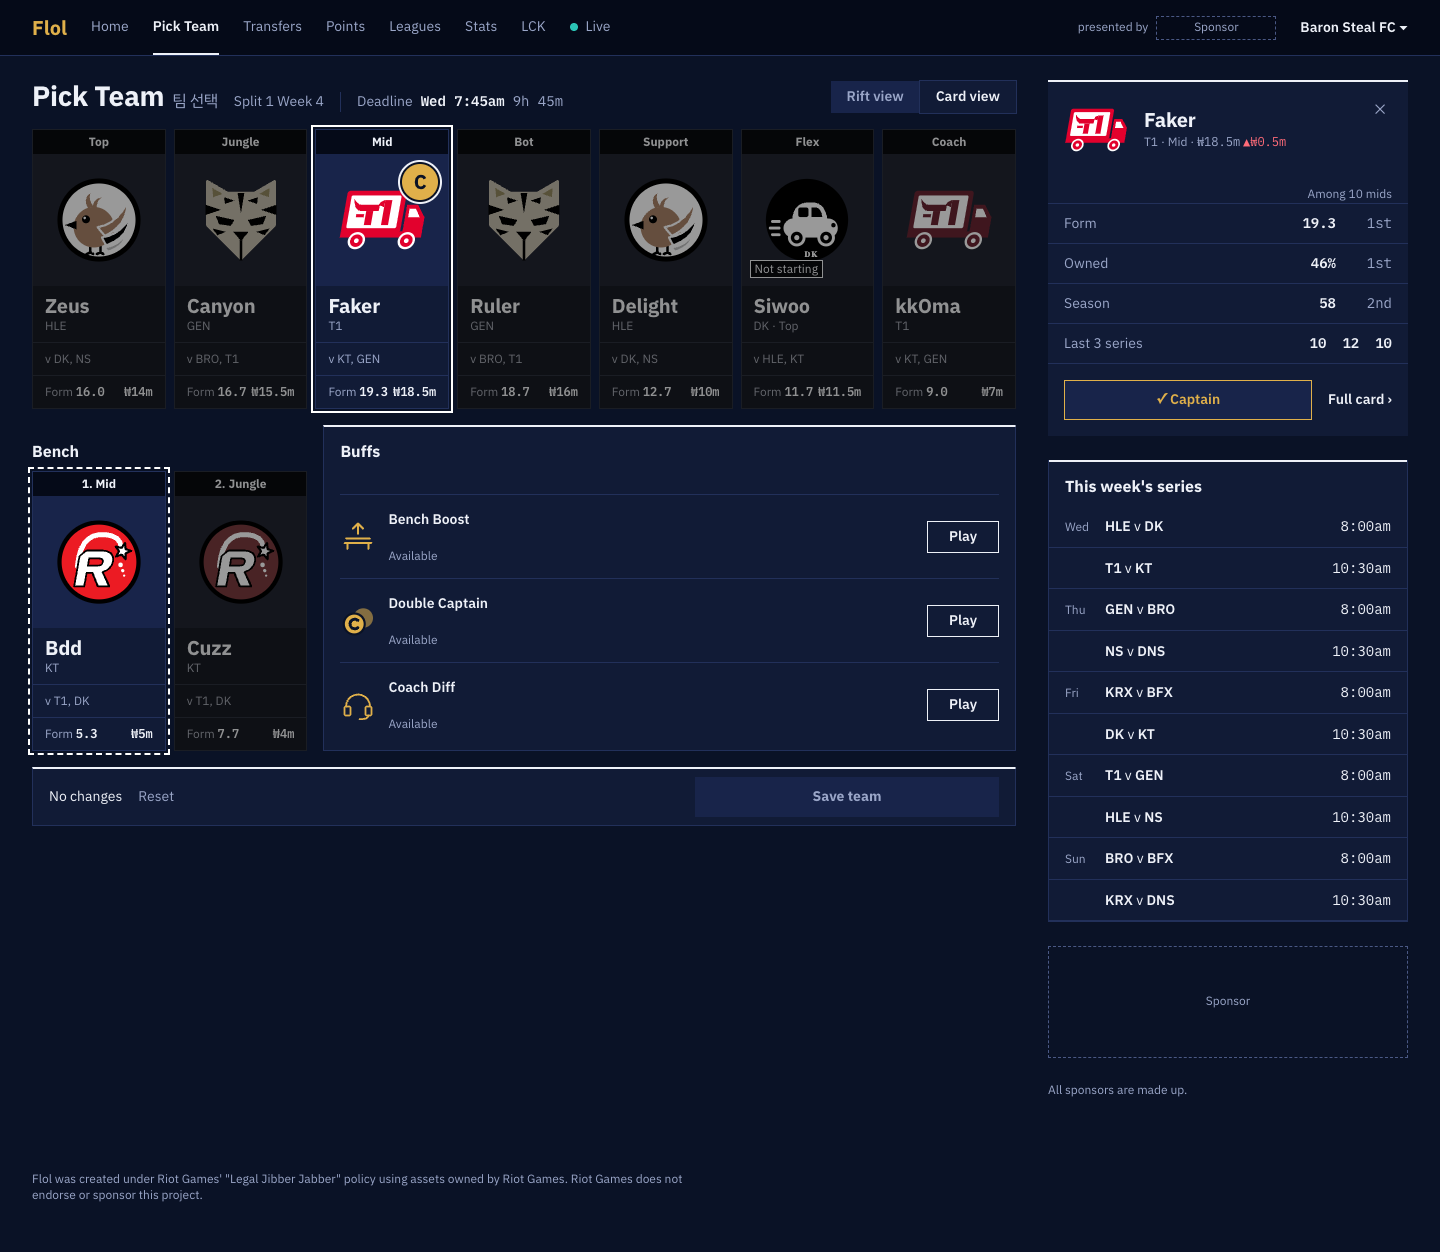
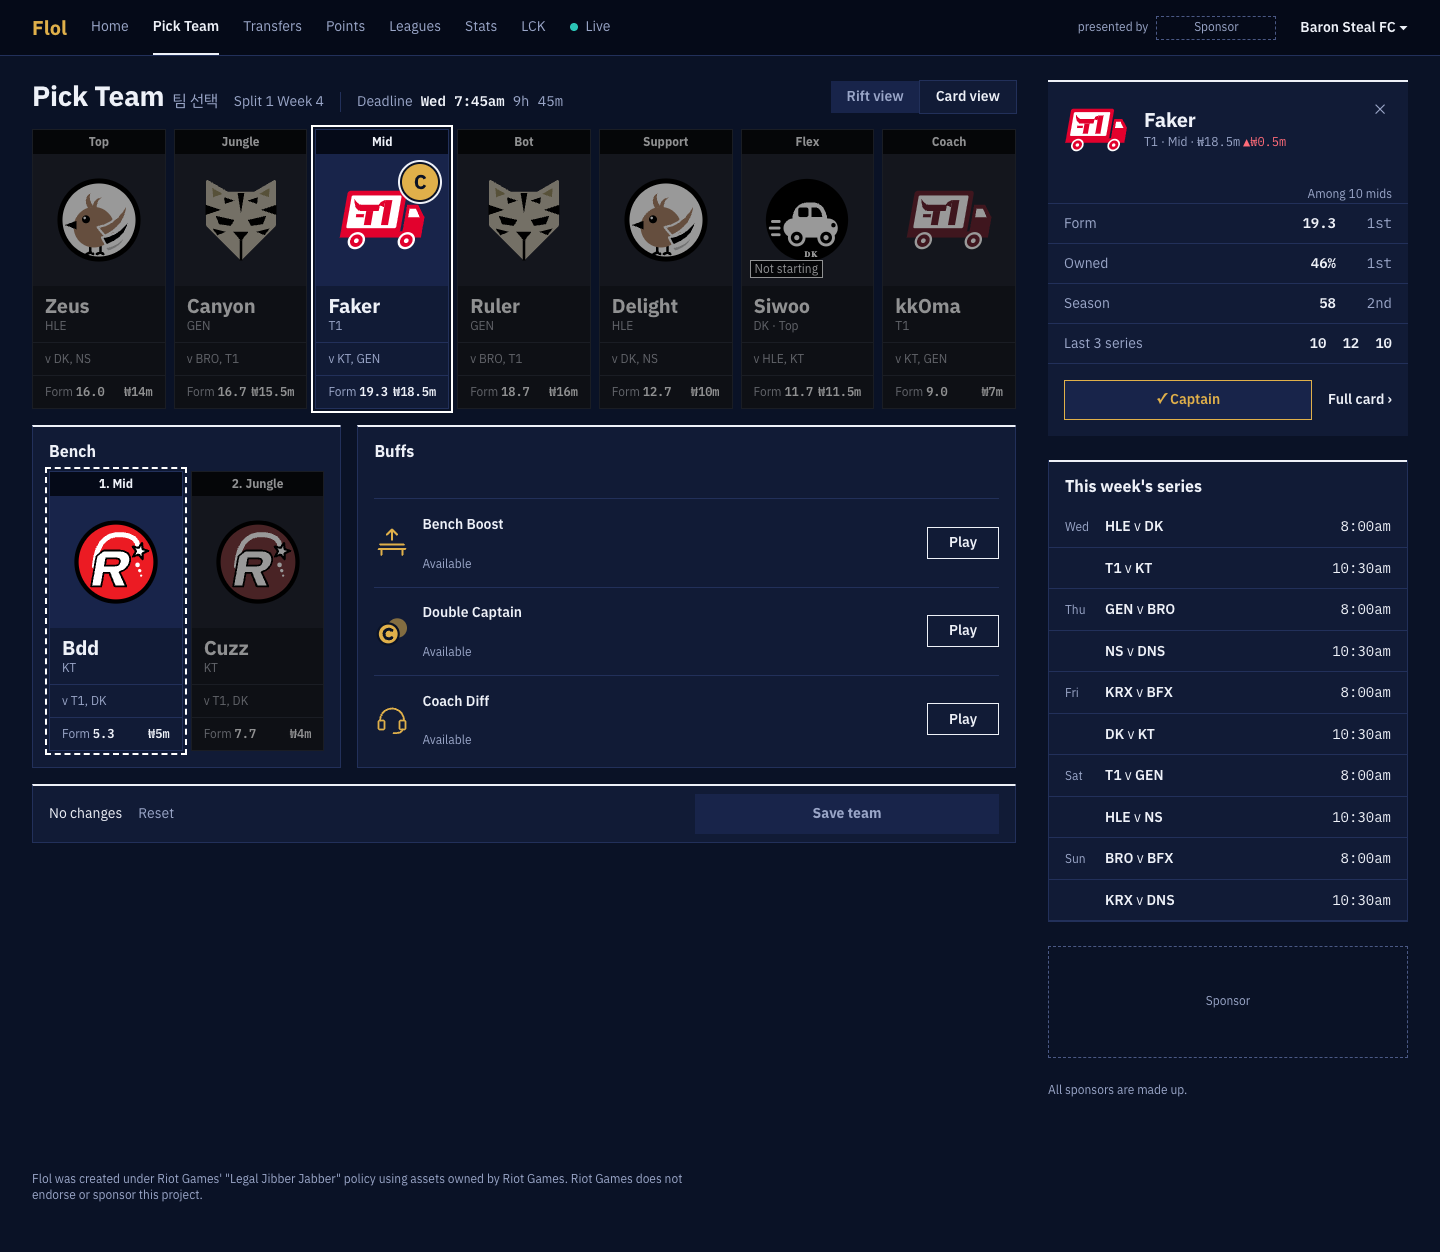
docs: Card view's bench is a panel level with Buffs
Part of #464

diff --git a/docs/design/approved/pick-team/arena.html b/docs/design/approved/pick-team/arena.html
@@ -128,10 +128,10 @@
 /* A buff with no key keeps its state under its name. */
 @media (min-width: 601px) { .buff__left { grid-column: 2; } }
 @media (min-width: 601px) {
-  /* The foot keeps the lineup's seven columns, so the bench's two cards sit under the first two starters at their size. */
-  .object--cards .squad-foot { display: grid; grid-template-columns: repeat(7, minmax(0, 1fr)); width: auto; margin-block: 0; gap: 16px 8px; }
-  .object--cards .squad-foot .bench { grid-column: 1 / span 2; grid-row: 1; grid-template-columns: 1fr 1fr; grid-template-rows: auto auto; justify-items: stretch; align-items: start; gap: 8px; padding: 14px 0 0; background: none; border: 0; }
-  .object--cards .squad-foot .buffs { grid-column: 3 / -1; grid-row: 1; margin-left: 8px; padding-bottom: 4px; }
+  /* The bench is a panel as Buffs is, the same top and foot; it is wide enough that its two cards keep a starter's width. */
+  .object--cards .squad-foot { display: grid; grid-template-columns: calc((100% - 48px) / 7 * 2 + 42px) 1fr; width: auto; margin-block: 0; gap: 16px; }
+  .object--cards .squad-foot .bench { grid-column: 1; grid-row: 1; grid-template-columns: 1fr 1fr; grid-template-rows: auto auto; justify-items: stretch; align-items: start; gap: 8px; padding: 12px 16px 16px; background: var(--paper); border: 1px solid var(--line); border-top: 2px solid var(--text); }
+  .object--cards .squad-foot .buffs { grid-column: 2; grid-row: 1; padding-bottom: 4px; }
   .object--cards .squad-foot .bar { grid-column: 1 / -1; display: flex; align-items: center; padding: 8px 16px; gap: 16px; }
   .object--cards .squad-foot .bar .bar__gap { display: block; }
   .object--cards .squad-foot .bar .save { min-width: 304px; }

diff --git a/docs/design/approved/pick-team/README.md b/docs/design/approved/pick-team/README.md
@@ -31,7 +31,7 @@ Arena is the first picture in the new look: the LCK's navy as the ground, IBM Pl
 - **A player**: a tap opens his card. Those he can swap with are outlined and the rest dimmed; tap one and they swap, tap him again to let go (FPL's one-tap swap).
 - **Buffs**: in the column beside the Rift, each its gold icon, name, state (`Available`, `On this week`, `Unavailable`, `Played Week n`) and a key: `Play` when available, `Cancel` when on, none otherwise. What it does is its hover. Never a count.
 - **Bench**: under the buffs, on the Rift's dark green; the Rift's own tiles, each under its order and role (`1. Mid`).
-- **Card view**: the seven starters in one row, Top to Coach. A card is its role strip, the portrait (the team's crest until photos exist, spec/13), name, team (a Flex's role after it), the week's opponents, then Form and price. The Captain's gold C sits in the portrait's corner; `Not starting` is a tag at its foot. Under the row, on the same seven columns: the bench as the same two cards under `Bench`, each strip its order and role (`1. Mid`), with Buffs beside them; then the changes, Reset and Save as one bar.
+- **Card view**: the seven starters in one row, Top to Coach. A card is its role strip, the portrait (the team's crest until photos exist, spec/13), name, team (a Flex's role after it), the week's opponents, then Form and price. The Captain's gold C sits in the portrait's corner; `Not starting` is a tag at its foot. Under the row: the bench as a panel of the same two cards at a starter's width, each strip its order and role (`1. Mid`), with the Buffs panel beside it, level at top and foot; then the changes, Reset and Save as one bar.
 - **Mid-swap**: the tapped player has a solid outline, those he can swap with a dashed one, and the rest are dimmed, in both views. Two can swap when each fits the other's slot (spec/01). A change not yet saved counts in the bar (`1 change`), Reset comes alive and Save team turns gold. `Make Captain` shows only on a starter who isn't the Captain; a bench player and the coach get no key.
 - **Save**: under the bench: how many changes, Reset, Save team. Save is off with no changes. The three boxes together run the Rift's height.
 - **The card**: on the right: crest, name, team, role, price and last move (a rise in red, a fall in blue); form, owned and season, each with its rank among his role, the group said once (`Among 10 mids`); last 3 series; `✓ Captain` as a state on the Captain, `Make Captain` on anyone else; `Full card ›`.

diff --git a/docs/design/plate.md b/docs/design/plate.md
@@ -127,8 +127,8 @@ Each part is drawn one way on every screen.
 - **The bench**, in Rift view: one bar, `Bench` then the Rift's own tile per bench
   player under its order and role (`1. Mid`), as FPL's bench under the pitch (Craig, 16 Nov 2026).
 - **Card view**: the 7 starters in one row, as the LCK broadcast's lineup (Top, Jungle, Mid, Bot,
-  Support, Flex, Coach). Its bench is the starters' own card, not the Rift's tile: two cards under
-  `Bench`, each strip its order and role (`1. Mid`), on the lineup's columns (Craig, 25 Nov 2026).
+  Support, Flex, Coach). Its bench is the starters' own card, not the Rift's tile: two cards in a
+  `Bench` panel level with Buffs, each strip its order and role (`1. Mid`) (Craig, 25 Nov 2026).
 - **Wide table** (Stats): the head and the name column stick; the table scrolls under them.
 - **Long names** end in `…` at their column's width; the full name shows on hover and in the panel.
 - **Panel** (Pick Team's buffs, bench and Save, a tapped player's card, the week's series): on
